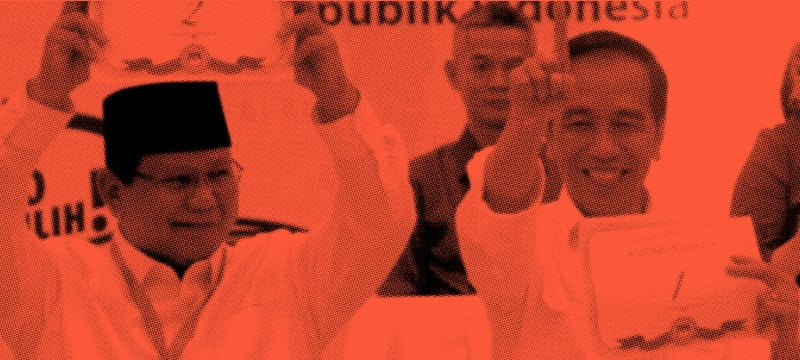
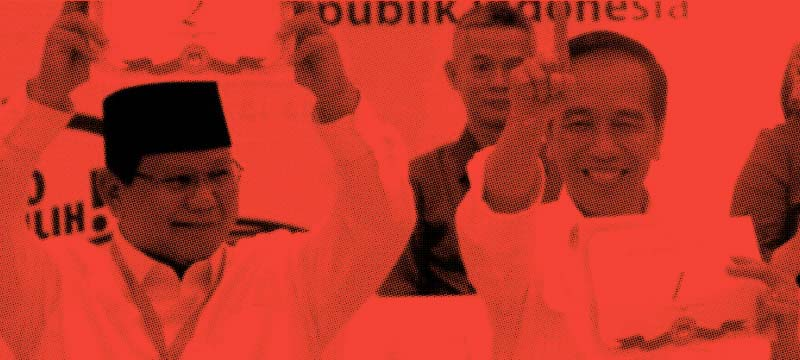
Add sources, deepen red and other minor changes

diff --git a/app/static/features/indonesia-votes-2019/_styles.sass b/app/static/features/indonesia-votes-2019/_styles.sass
@@ -1,5 +1,5 @@
 // Vars
-$color-hl: #fc5839
+$color-hl: #f44336
 $color-dk: #1c0a13
 $color-lt: #e1dbd6
 $color-ff: #fff
@@ -15,7 +15,7 @@ $color-ff: #fff
   background: $color-ff
 
 .txt-hl
-  color: $color-hl
+  color: lighten($color-hl, 2)
 .txt-dk
   color: $color-dk
 .txt-lt
@@ -273,10 +273,13 @@ strong, em, .txt-tu, .caption
     display: inline-block
     border: 1px solid transparent
     color: $color-ff
-    background-color: $color-lt
+    background-color: darken($color-lt, 8)
     margin: auto
     box-sizing: border-box
     transition: background-color 300ms
+
+    @media (color-gamut: p3)
+      background-color: $color-lt
 
     + .icon
       margin-left: 8px
@@ -317,7 +320,8 @@ strong, em, .txt-tu, .caption
     z-index: 1
     transition: opacity 300ms
 
-    .page-0 &
+    .page-0 &,
+    .page-13 &
       opacity: 0
 
     .pager-page-start,
@@ -373,13 +377,15 @@ strong, em, .txt-tu, .caption
       height: 8px
       margin: -4px
       border-radius: 4px
-      background: $color-lt
       transition: background 300ms
+      background: darken($color-lt, 8)
+
+      @media (color-gamut: p3)
+        background: $color-lt
 
     &:hover:before,
     &:focus:before
       background: $color-dk
-
 
 #scroller
   margin: auto
@@ -394,6 +400,21 @@ strong, em, .txt-tu, .caption
   height: 100%
   scroll-snap-align: start
   position: relative
+
+#scroll-item-outro
+  .social-share .icon
+    width: auto
+    padding: 0 0.75em
+    background-color: $color-hl
+
+    &:hover
+      background-color: $color-dk
+
+    strong
+      vertical-align: top
+
+    &:before
+      margin-right: 0.5em
 
 .digit
   overflow: hidden
